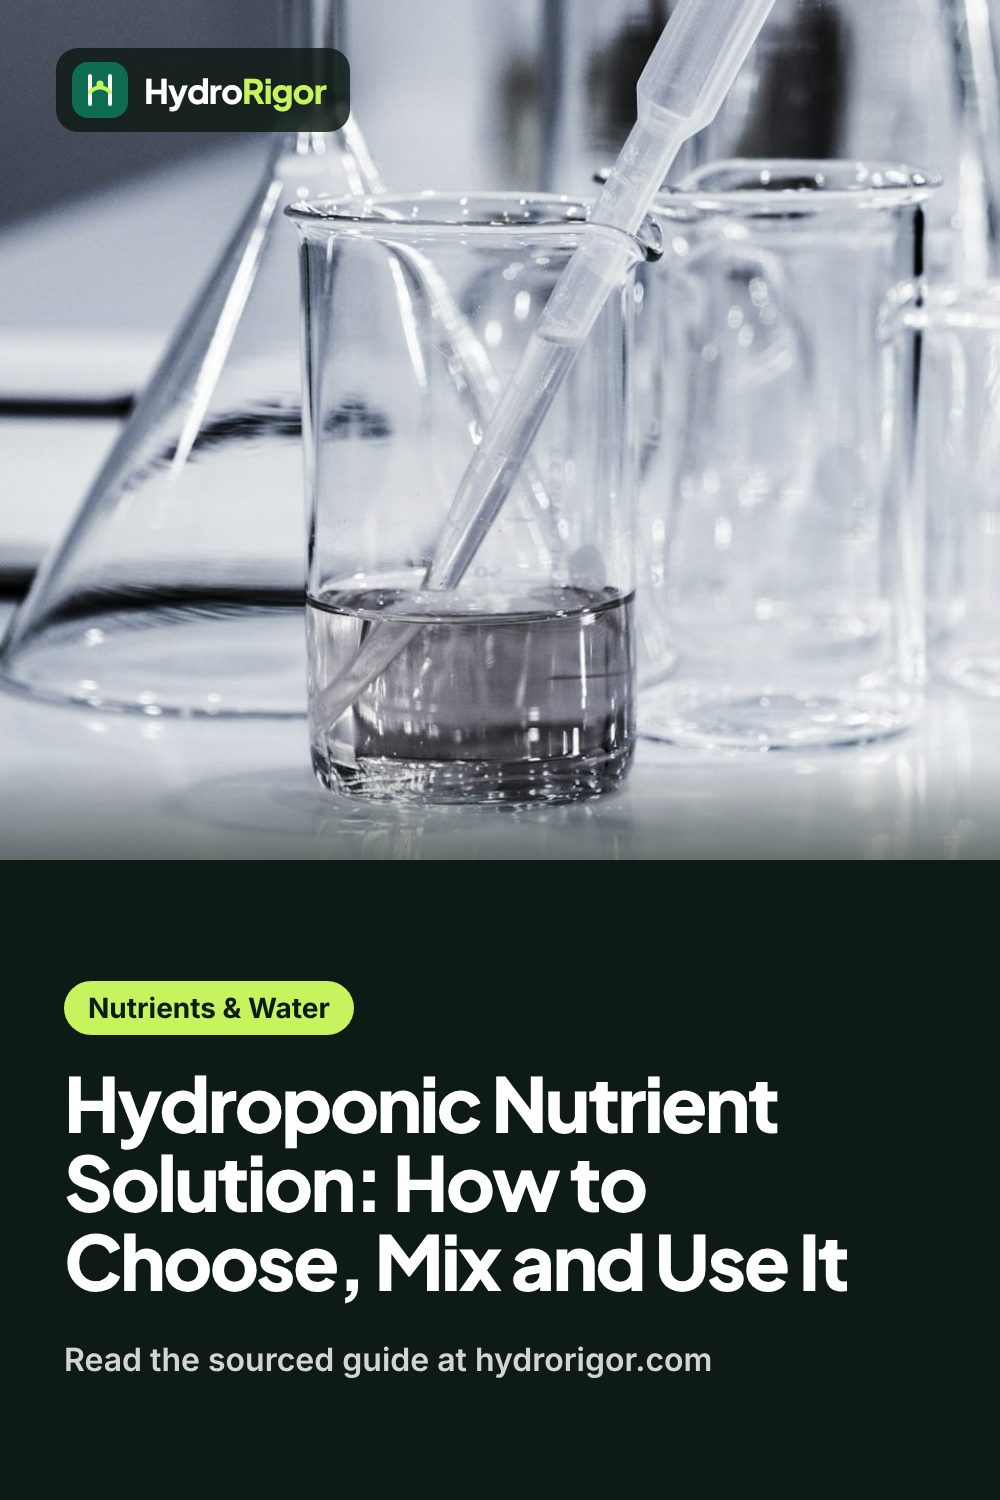
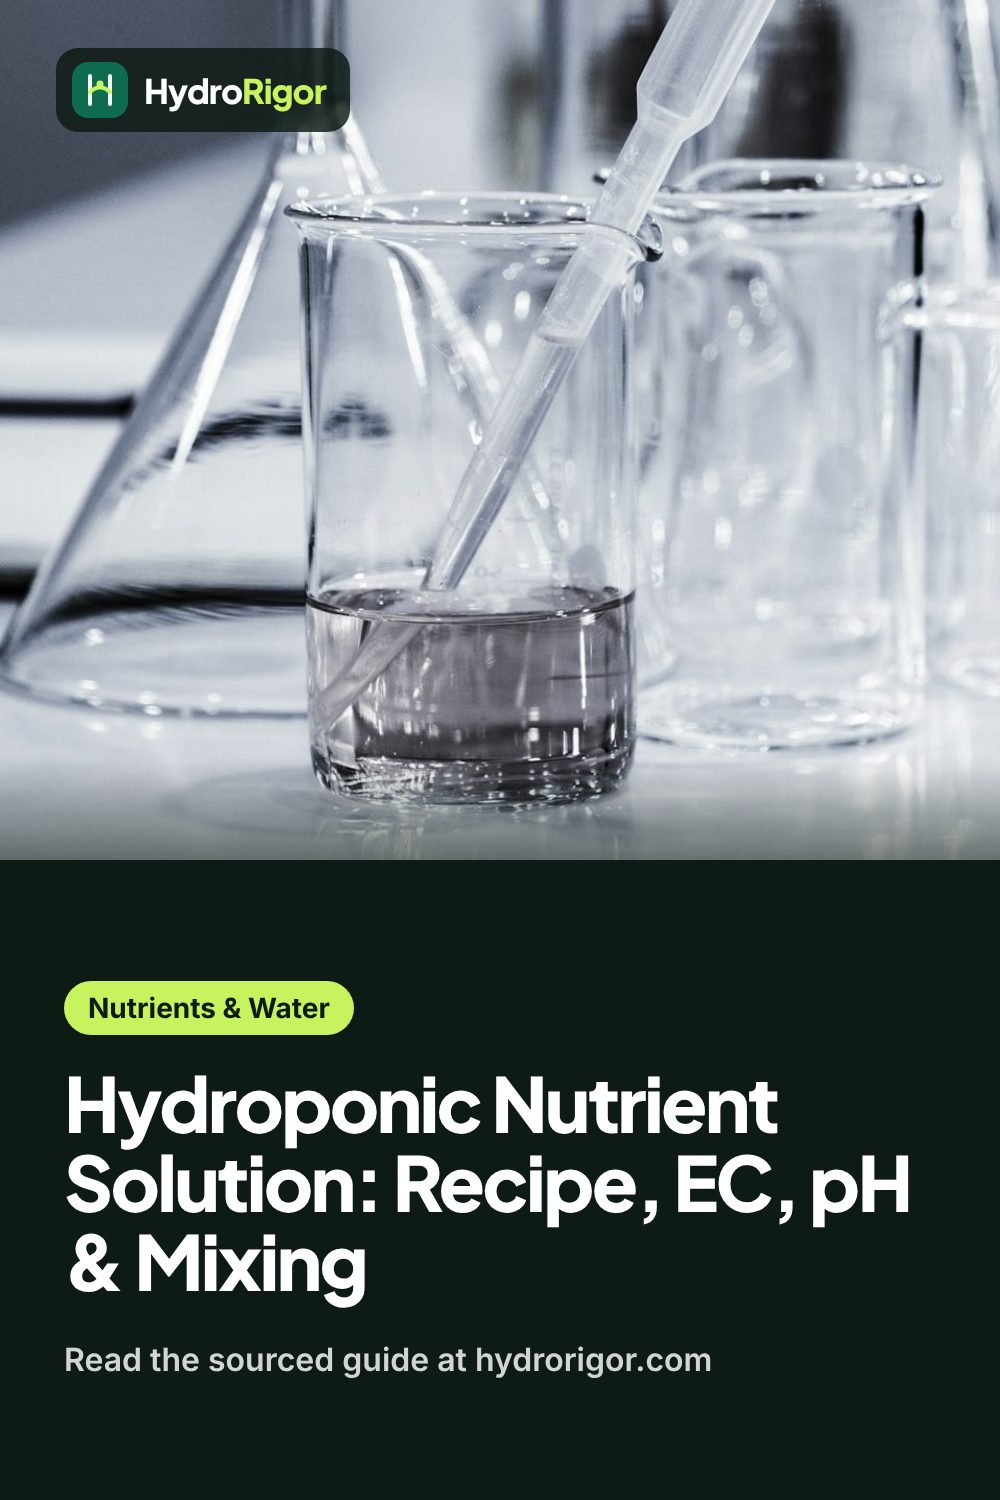
Rebuild nutrient solution guide: recipes in ppm, EC, pH, oxygen and mixing
Queue item 16. New title "Hydroponic Nutrient Solution: Recipe, EC, pH &
Mixing", two diagrams (recipe bar chart, two stock tanks), sourced tables
for recipes, EC by crop, pH, temperature and dissolved oxygen, and source
water. Share images, Pinterest row and state files updated.

Claude-Session: https://claude.ai/code/session_011zSWQxFoszCTiLoZEgbDjZ

Changed region(s): [[0.062, 0.7667, 0.93, 0.8893]]

diff --git a/src/data/editorial-sources/m06.ts b/src/data/editorial-sources/m06.ts
@@ -25,7 +25,7 @@ export const m06EditorialSources = [
     url: 'https://extension.missouri.edu/publications/g6984',
     accessedDate: '2026-09-12',
     sourceType: 'university-extension',
-    locator: 'Water quality, preparation, measurement, and nutrient-solution management',
+    locator: 'Water quality, preparation, measurement, and nutrient-solution management; Table 1 (source water: pH 5.5–7, EC 0.2–0.8 dS/m, alkalinity 40–160 ppm, dissolved oxygen >6 ppm, sodium <50, chlorine <70, sulfates <90, boron <0.5, calcium <150 ppm); pH: optimum 5.5–6.5 for most crops; Dissolved oxygen: over 6 ppm optimum, 6.85 ppm solubility at 35 °C and 5 dS/m; Preparing nutrient solutions: calcium (15-0-0) reacts with phosphorus and sulfate from a 5-12-26 formulation; Meter calibration and care: weekly at pH 4 and 7, DO meters over $500; Increasing/Lowering pH',
   },
   {
     id: 'uga-home-hydroponics',
@@ -142,7 +142,7 @@ export const m06EditorialSources = [
     url: 'https://cpb-us-e1.wpmucdn.com/blogs.cornell.edu/dist/8/8824/files/2019/06/Cornell-CEA-Lettuce-Handbook-.pdf',
     accessedDate: '2026-11-05',
     sourceType: 'university-extension',
-    locator: 'Section 1.1 (humidity covers needed for bare, not pelleted, seed; one seed per 1-inch rockwool plug); Chapter 4 Day 0-3 (20 °C germination, 50 then 250 µmol/m²/s, germination percentage check on Day 3, transplant Day 21, harvest Day 35); pond (deep-flow raft) production system',
+    locator: 'Section 1.1 (humidity covers needed for bare, not pelleted, seed; one seed per 1-inch rockwool plug); Chapter 4 Day 0-3 (20 °C germination, 50 then 250 µmol/m²/s, germination percentage check on Day 3, transplant Day 21, harvest Day 35); pond (deep-flow raft) production system; Section 3.1 (pH 5.8 optimum, 5.6–6.0 acceptable; DO at least 4 ppm for satisfactory growth, near 0 without added oxygen); Section 3.3 set-points (water no higher than 25 °C; DO 7 mg/L, crop failure below 3 ppm; EC 1150–1250 µS/cm above source water); sanitation with weak (2%) bleach solution',
   },
   {
     id: 'egro-lettuce-tipburn-2023',
@@ -268,7 +268,7 @@ export const m06EditorialSources = [
     url: 'https://extension.psu.edu/hydroponics-systems-nutrient-solution-programs-and-recipes',
     accessedDate: '2026-11-06',
     sourceType: 'university-extension',
-    locator: 'Fertilizer programs: tomato example with a 4-18-38 base supplemented with calcium nitrate and magnesium sulfate by variety and stage; Nutrient solution concentration and fertilizer compatibility: two stock tanks keep calcium apart from phosphates and sulfates to avoid precipitates that clog drip lines',
+    locator: 'Fertilizer programs: tomato example with a 4-18-38 base supplemented with calcium nitrate and magnesium sulfate by variety and stage; Nutrient solution concentration and fertilizer compatibility: two stock tanks keep calcium apart from phosphates and sulfates to avoid precipitates that clog drip lines; Nutrient solution recipes: modified Sonneveld recipe for herbs (N 150, P 31, K 210, Ca 90, Mg 24, Fe 1, Mn 0.25, B 0.16, Zn 0.13, Cu 0.023, Mo 0.024 ppm; no sulfur target), fertilizer table, 210 − 30 = 180 ppm potassium example, high-precision scale for micronutrients; Complete soluble fertilizer approach: 100 to 150 ppm nitrogen for lettuce; stock solutions at 50, 100 or 200 times normal strength; How to choose fertilizers: greenhouse grade',
   },
   {
     id: 'psu-plant-nutrition',
@@ -286,7 +286,7 @@ export const m06EditorialSources = [
     url: 'https://extension.okstate.edu/fact-sheets/electrical-conductivity-and-ph-guide-for-hydroponics',
     accessedDate: '2026-11-06',
     sourceType: 'university-extension',
-    locator: 'HLA-6722 Table 2: tomato EC 2.0–4.0 mS/cm, pH 6.0–6.5; lettuce EC 1.2–1.8, pH 6.0–7.0; basil EC 1.0–1.6, pH 5.5–6.0; spinach EC 1.8–2.3, pH 6.0–7.0; strawberry EC 1.8–2.2, pH 6; broccoli EC 2.8–3.5, pH 6.0–6.8; kale and Swiss chard not listed; check pH and EC daily at the same time; adjust pH only after EC is in range; dilute with water if EC is high, add concentrate if low; pH adjusters; test source water for pH, EC and alkalinity; alkalinity above 75 ppm raises pH',
+    locator: 'HLA-6722 Table 2: tomato EC 2.0–4.0 mS/cm, pH 6.0–6.5; lettuce EC 1.2–1.8, pH 6.0–7.0; basil EC 1.0–1.6, pH 5.5–6.0; spinach EC 1.8–2.3, pH 6.0–7.0; strawberry EC 1.8–2.2, pH 6; broccoli EC 2.8–3.5, pH 6.0–6.8; kale and Swiss chard not listed; check pH and EC daily at the same time; adjust pH only after EC is in range; dilute with water if EC is high, add concentrate if low; pH adjusters; test source water for pH, EC and alkalinity; alkalinity above 75 ppm raises pH; Table 1 (water: sodium <50, calcium <150, chloride <140, sulfate <100 ppm); What is pH: solution pH 5 to 6, usually 5.5, root environment 6 to 6.5; Table 2 also peppers 0.8–1.8/5.5–6.0 and cucumber 1.7–2.0/5.0–5.5; EC Management: 1.41 mS/cm buffer; Important Points: water temperature 72 to 75 °F; Refreshing the Nutrient Solution: replace completely every two weeks, add water daily as needed',
   },
   {
     id: 'usda-organic-certification',

diff --git a/src/data/m06-content.ts b/src/data/m06-content.ts
@@ -31,7 +31,7 @@ const items = [
   [11, 'articles', 'crops', 'Hydroponic Tomatoes: pH, EC, Light, Spacing & Pruning', 'hydroponic-tomatoes', 'transactional research', 'hydroponic tomatoes', 'VERIFIED_2026-09-12', 1900, 29, ['tennessee-fruiting-crops', 'aces-greenhouse-tomato-anr2955', 'utk-trust-tomato-density-2012', 'vt-management-basics-spes462', 'vt-system-crop-comparisons', 'purdue-supplemental-light-lettuce', 'osu-ph-ec-guide', 'ifas-hydroponic-tomato-formulation', 'osu-hydro-hints-buckets', 'ifas-volusia-dwc-bucket', 'msstate-blossom-end-rot', 'mu-hydroponic-farming'], ['/tools/ph-ec-targets/']],
   [12, 'articles', 'crops', 'Hydroponic Tomato Seeds: Varieties That Fit Indoor Systems', 'hydroponic-tomato-seeds', 'transactional research', 'hydroponic tomatoes seeds', 'VERIFIED_2026-09-12', 480, 16, ['ifas-tomato-cultivars', 'usu-indoor-tomatoes', 'tennessee-fruiting-crops'], []],
   [13, 'articles', 'nutrients', "Hydroponic Nutrients: pH, EC & Mixing Guide for Beginners", 'hydroponic-nutrients', 'informational', 'hydroponic nutrients', 'VERIFIED_2026-09-12', 3600, 22, ['psu-plant-nutrition', 'mu-nutrient-solutions', 'osu-ph-ec-guide', 'ua-strawberry-irrigation'], ['/tools/ph-ec-targets/', '/tools/nutrient-mixing-calculator/']],
-  [14, 'articles', 'nutrients', 'Hydroponic Nutrient Solution: How to Choose, Mix and Use It', 'hydroponic-nutrient-solution', 'transactional research', 'hydroponic nutrients solution', 'VERIFIED_2026-09-12', 720, 25, ['mu-nutrient-solutions', 'psu-nutrient-programs', 'osu-ph-ec-guide'], ['/tools/nutrient-mixing-calculator/']],
+  [14, 'articles', 'nutrients', 'Hydroponic Nutrient Solution: Recipe, EC, pH & Mixing', 'hydroponic-nutrient-solution', 'transactional research', 'hydroponic nutrients solution', 'VERIFIED_2026-09-12', 720, 25, ['mu-nutrient-solutions', 'psu-nutrient-programs', 'psu-plant-nutrition', 'osu-ph-ec-guide', 'cornell-cea-lettuce-handbook', 'ifas-hydroponic-tomato-formulation', 'tennessee-fruiting-crops'], ['/tools/nutrient-mixing-calculator/']],
   [15, 'articles', 'nutrients', 'Organic Hydroponic Nutrients: What Works and What to Know', 'organic-hydroponic-nutrients', 'transactional research', 'hydroponic nutrients organic', 'VERIFIED_2026-09-12', 590, 20, ['usda-organic-certification', 'psu-organic-nutrient-study', 'mu-nutrient-solutions'], []],
   [16, 'articles', 'best', 'Best Hydroponic Nutrients for Home Growers', 'hydroponic-nutrients-for-home-growers', 'commercial research', 'best hydroponic nutrients', 'METRIC_NOT_REVERIFIED', undefined, undefined, ['psu-nutrient-programs', 'mu-nutrient-solutions', 'psu-plant-nutrition'], ['/tools/nutrient-mixing-calculator/']],
   [17, 'articles', 'nutrients', 'Powder vs Liquid Hydroponic Nutrients: Which Should You Buy?', 'powder-vs-liquid-hydroponic-nutrients', 'commercial research', 'hydroponic nutrients powder', 'METRIC_NOT_REVERIFIED', undefined, undefined, ['psu-nutrient-programs', 'mu-nutrient-solutions'], ['/tools/nutrient-mixing-calculator/']],

diff --git a/.agent/state/CURRENT_HANDOFF.md b/.agent/state/CURRENT_HANDOFF.md
@@ -1,6 +1,6 @@
 # Current Handoff
 
-Updated: 2026-11-12
+Updated: 2026-11-13
 
 ## State
 
@@ -78,6 +78,7 @@ Updated: 2026-11-12
 Guides published by automated runs under `HydroRigor Editorial`. When Najeeb has read one
 and approves, switch its byline to `Najeeb`.
 
+- `/nutrients-water/hydroponic-nutrient-solution/` — "Hydroponic Nutrient Solution: Recipe, EC, pH & Mixing" (rebuild, 2026-11-13; title changed from "...How to Choose, Mix and Use It"; Pinterest row `docs/marketing/pinterest/pins-nutrient-solution-2026-11-14.csv`). What a solution contains with the modified Sonneveld recipe in ppm, leafy versus tomato recipes, three ways to make a solution, why two parts, 7-step mixing, EC by crop, pH conflict table, temperature and dissolved oxygen, source-water limits (Missouri versus Oklahoma State), upkeep, troubleshooting and FAQ, with two new diagrams (recipe bar chart, two stock tanks). Ships as HydroRigor Editorial; approve to change the byline to Najeeb.
 - `/crops/hydroponic-lettuce-systems/` — "Hydroponic Lettuce Systems: NFT vs DWC vs Kratky Compared" (rebuild, 2026-11-12). Answer by number of plants (Kratky 1–3, DWC raft for a tray, NFT for rows), system comparison table, NFT numbers (slope, flow, length, heat and oxygen along the run) for "nutrient film hydroponic system", DLI-versus-yield table, step-by-step, troubleshooting and FAQ; two new diagrams (three-system cross-section; NFT channel numbers). Source conflicts shown and resolved on the page: NFT slope (Purdue 1:100 vs Oregon State 2% minimum; page suggests 2%), DWC oxygen (VT 7–10, Kentucky 6–8, UF/IFAS 5), lettuce DLI (Kentucky 12–17, Purdue 15–20, VT 17+), root-zone temperature (Sato's cited 13–18 °C vs UF/IFAS 65–80 °F). No source gives a home NFT plant spacing; the page says so. Web pages could not be opened in this run (fetch permission timed out), so every figure comes from 17 registered sources. Photo kept. Pinterest row: `docs/marketing/pinterest/pins-lettuce-systems-2026-11-14.csv`.
 
 - `/best/hydroponic-systems-for-beginners/` (rebuilt 2026-11-12; Pinterest row `docs/marketing/pinterest/pins-beginners-2026-11-13.csv`): Kratky-first answer, systems ranked by

diff --git a/.agent/state/CURRENT_MILESTONE.md b/.agent/state/CURRENT_MILESTONE.md
@@ -81,7 +81,7 @@ impressions in 28 days).
 14. [x] `/best/hydroponic-systems-for-beginners/` — rebuilt 2026-11-12 ("Best Hydroponic System for Beginners: What to Start With"). Search Console: 6 impressions, position 46.5.
 15. [x] `/crops/hydroponic-lettuce-systems/` — rebuilt 2026-11-12 ("Hydroponic Lettuce Systems: NFT vs DWC vs Kratky Compared"). "nutrient film hydroponic system" 1,300 / 30;
         hydroponic lettuce systems (1,000, difficulty 28).
-16. [ ] `/nutrients-water/hydroponic-nutrient-solution/` — rebuild. "hydroponic nutrients solution" 720 / 25.
+16. [x] `/nutrients-water/hydroponic-nutrient-solution/` — rebuilt 2026-11-13 ("Hydroponic Nutrient Solution: Recipe, EC, pH & Mixing"). "hydroponic nutrients solution" 720 / 25.
 17. [ ] New guide, plan ID 28: Kratky hydroponics (supports the Kratky sections of three rebuilt guides).
 18. [ ] New guide, plan ID 66: pH meters for hydroponics — "ph meter hydroponics" 590 / 15,
         "digital ph meter hydroponics" 140 / 14. Publish as a how-to-choose guide; add named
